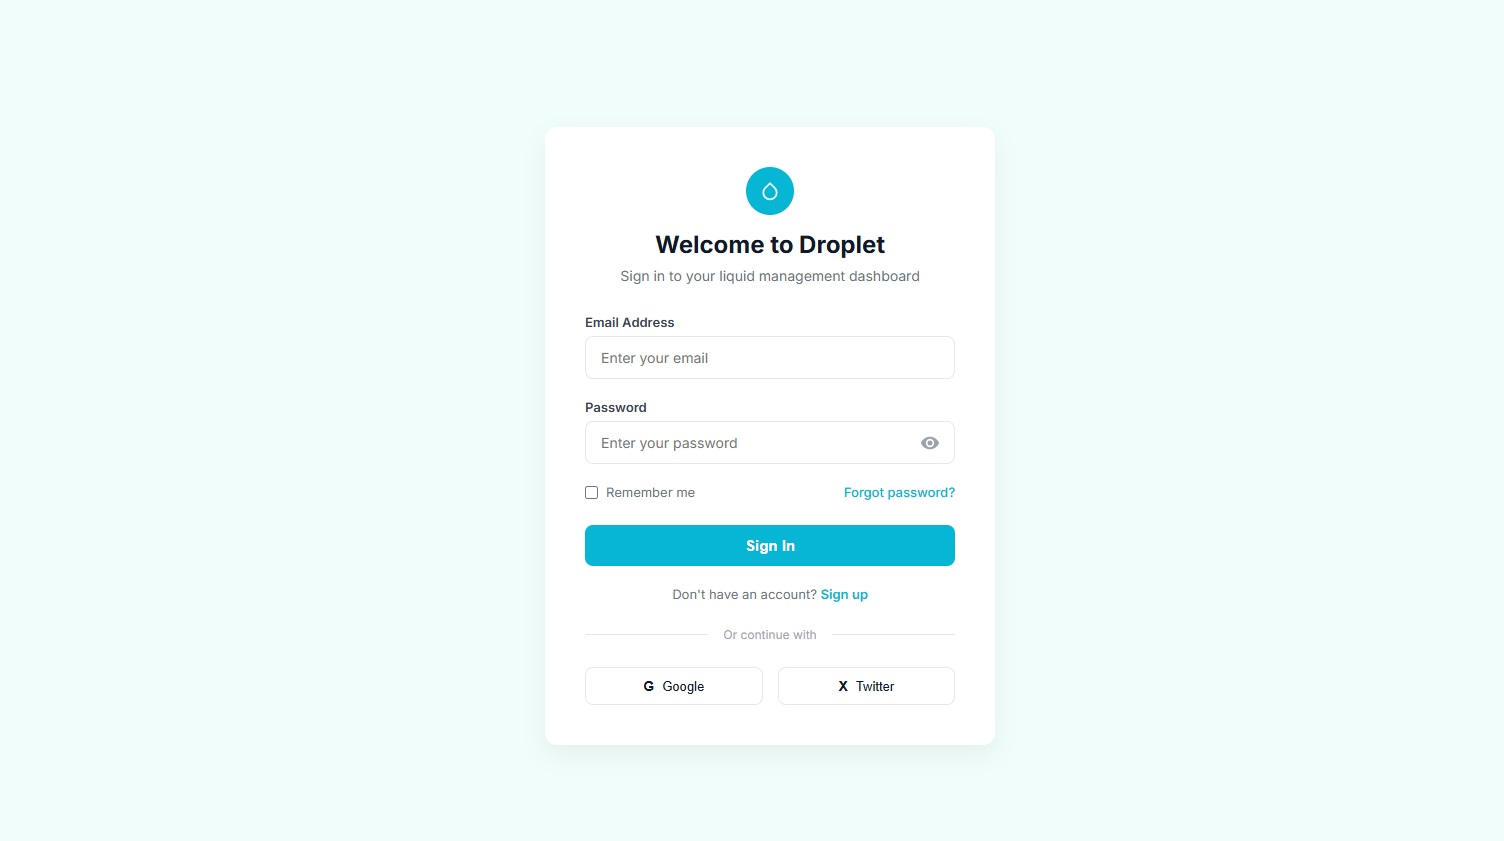
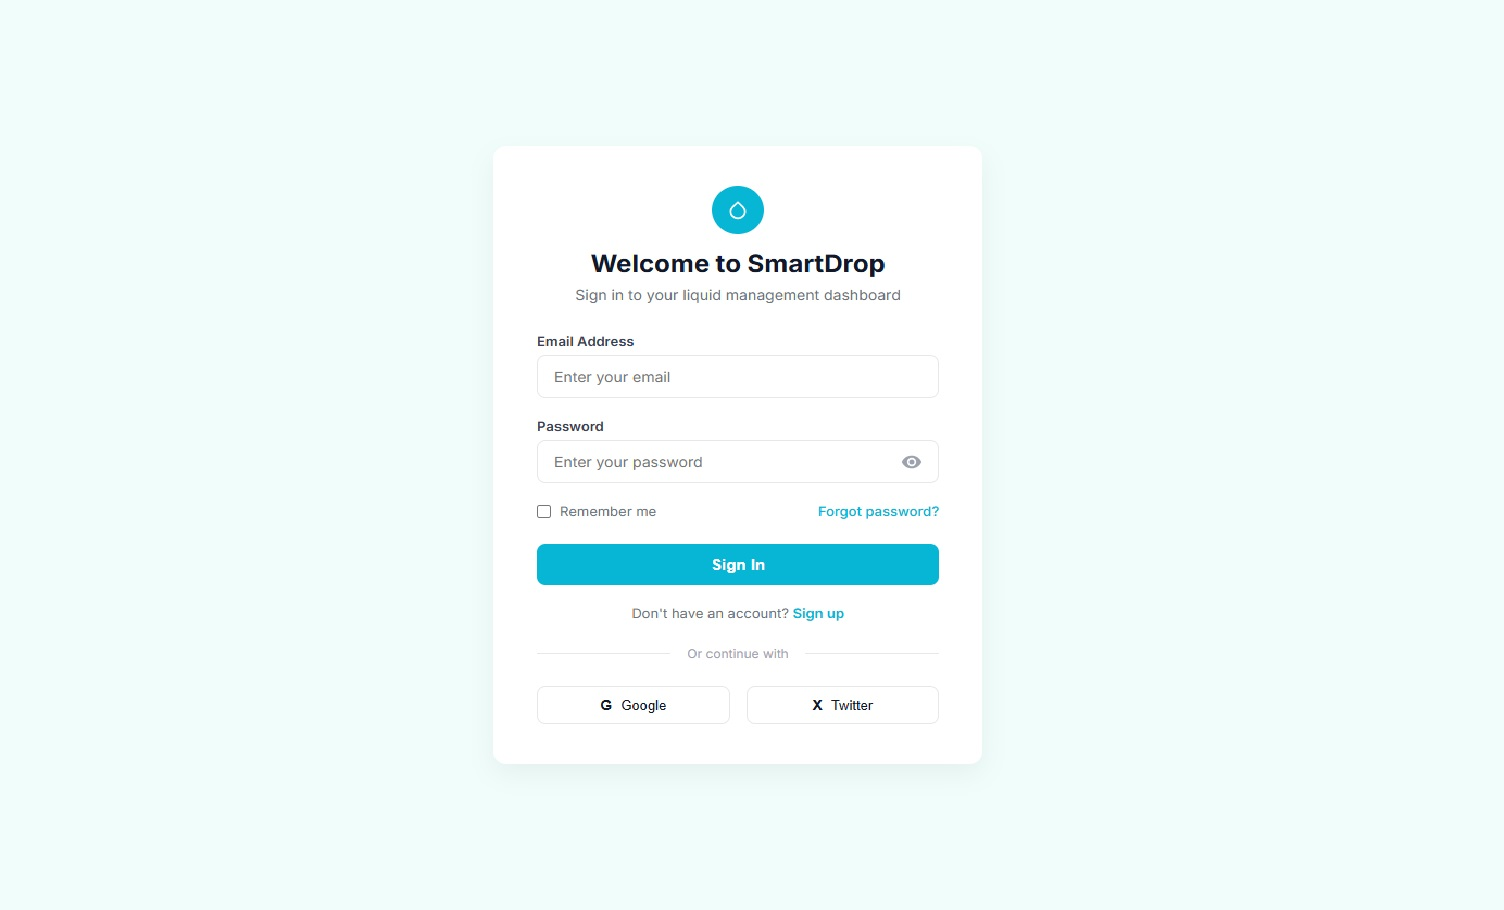
(docs)chapter4: Web UserFlow Diagrams updated

diff --git a/README.md b/README.md
@@ -247,7 +247,7 @@ del ABET – EAC \- Student Outcome 3\.
 # Capítulo IV: Product Design
 
 ## 4.1. Style Guidelines
-En esta sección, se presentan las pautas de estilo y diseño que guiarán la creación de la página web y la aplicación de Droplet. Estas pautas buscan asegurar una experiencia de usuario coherente, clara y atractiva, transmitiendo confianza y accesibilidad, en línea con la identidad de la marca y los objetivos del proyecto.
+En esta sección, se presentan las pautas de estilo y diseño que guiarán la creación de la página web y la aplicación de SmartDrop. Estas pautas buscan asegurar una experiencia de usuario coherente, clara y atractiva, transmitiendo confianza y accesibilidad, en línea con la identidad de la marca y los objetivos del proyecto.
 
 ### 4.1.1. General Style Guidelines
 
@@ -302,7 +302,7 @@ Desarrollaremos una plataforma digital que pueda usarse en cualquier dispositivo
 **Componentes Implementados:**
 
 **Header:**
-- Logo Droplet prominente en la esquina izquierda
+- Logo SmartDrop prominente en la esquina izquierda
 - Navegación horizontal con: Product, About Us, Team, Solutions, Liquids, Features, Testimonials, Pricing, FAQ
 - Botón CTA "Contact Sales" destacado con fondo blanco
 - Selector de idioma (EN) en la esquina derecha
@@ -334,13 +334,13 @@ Desarrollaremos una plataforma digital que pueda usarse en cualquier dispositivo
 - **Others:** "And more liquids across industries"
 
 **About Us:**
-- Descripción: "At Droplet we build sensor and software technology to provide total visibility of liquid usage. We believe in precise data, useful alerts and operational simplicity"
+- Descripción: "At SmartDrop we build sensor and software technology to provide total visibility of liquid usage. We believe in precise data, useful alerts and operational simplicity"
 - Tres pilares con iconos distintivos en cards individuales:
     - **Mission (ícono objetivo rojo):** "Make liquid management predictable and efficient"
     - **Reliability (ícono candado amarillo):** "Certified sensors and a platform with 99.9% uptime"
     - **Customer focus (ícono persona azul):** "Human support, guided onboarding and continuous improvements"
 
-**Our team:** "Five pillars powering Droplet:"
+**Our team:** "Five pillars powering SmartDrop:"
 - Cinco perfiles en layout de cuadrícula 2x3 (5 personas total)
 - **Primer perfil completo visible:** YNGA AMADO, JAFETH WORREN - Ingeniería de Software, con foto real
 - **Cuatro perfiles adicionales:** Muestran placeholders azules con "foto" indicando espacios para imágenes del equipo
@@ -363,10 +363,10 @@ Desarrollaremos una plataforma digital que pueda usarse en cualquier dispositivo
 - **Enterprise Custom:** Unlimited tanks and sites, Integrations and SLAs, Exports and audits, 24/7 support - Botón "Choose Plan" outline azul
 
 **What our customers say:** Sección de testimonios con tres cards de clientes en layout horizontal:
-- **Laura P. (LP) - Facilities Lead:** "Droplet cut unplanned downtime by 27% and paid for itself in 8 weeks. Our ops team sleeps better." - 5 estrellas
+- **Laura P. (LP) - Facilities Lead:** "SmartDrop cut unplanned downtime by 27% and paid for itself in 8 weeks. Our ops team sleeps better." - 5 estrellas
 - **Daniel R. (DR) - Operations Manager:** "From fuel to syrup, one dashboard unifies everything. Forecasts are spot-on and alerts are timely." - 5 estrellas
 - **María G. (MG) - Plant Supervisor:** "Inventory variance dropped 22% and replenishment logistics finally make sense." - 5 estrellas
-- Subtítulo: "Real stories from teams using Droplet for liquids"
+- Subtítulo: "Real stories from teams using SmartDrop for liquids"
 - Avatars circulares con iniciales en colores distintivos (LP azul, DR azul, MG azul)
 - Diseño de cards con bordes suaves y rating de 5 estrellas prominente en cada una
 
@@ -386,8 +386,8 @@ Desarrollaremos una plataforma digital que pueda usarse en cualquier dispositivo
     - **Get Help:** FAQ, Progress, Advisors, Payment Options
     - **Community:** Our Story, Developers, Events
     - **Follow Us:** Íconos de redes sociales (Facebook, Twitter, Instagram, YouTube)
-- Copyright notice: "© 2025 Droplet. All rights reserved."
-- Logo "Droplet" en la esquina inferior izquierda
+- Copyright notice: "© 2025 SmartDrop. All rights reserved."
+- Logo "SmartDrop" en la esquina inferior izquierda
 
 **Interacciones:**
 - Hover effects en botones con transiciones suaves
@@ -445,7 +445,7 @@ Se emplean etiquetas claras, simples y orientadas al usuario para identificar ca
 
 ### 4.2.3. SEO Tags and Meta Tags
 
-**Title:** Droplet – Monitoreo Inteligente de Líquidos para Hogares y Empresas
+**Title:** SmartDrop – Monitoreo Inteligente de Líquidos para Hogares y Empresas
 
 **Description:** Monitorea sistemas de líquidos con sensores IoT. Rastrea volumen, presión, densidad y temperatura de gasolina, cerveza, miel, melaza, químicos y más líquidos en tiempo real con alertas claras e informes para una gestión óptima.
 
@@ -512,7 +512,7 @@ desde el primer contacto.
 
 ### 4.3.1. Landing Page Wireframe
 
-El wireframe de la página de inicio de Droplet organiza los elementos clave para
+El wireframe de la página de inicio de SmartDrop organiza los elementos clave para
 ofrecer una navegación intuitiva. Incluye un encabezado con el logo y un menú de
 navegación, seguido de una propuesta de valor clara con botones de acción destacados
 como "Contact Sales" y "Get Started". La página cuenta con secciones que presentan
@@ -526,7 +526,7 @@ con enlaces legales en el pie de página.
 
 ![SystemContext.png](assets/chapter4/SmartDrop_Wireframe.png)
 ### 4.3.2. Landing Page Mock-up
-El Landing Page Mock-up de Droplet muestra un diseño limpio y organizado,
+El Landing Page Mock-up de SmartDrop muestra un diseño limpio y organizado,
 con una estructura intuitiva que guía a los usuarios a través de la plataforma.
 Incluye una propuesta de valor destacada en la parte superior, seguida de secciones
 clave como las funcionalidades clave, los beneficios para empresas y hogares,
@@ -537,13 +537,13 @@ clientes, detalles sobre la empresa y un formulario para contactar con el area d
 ![SystemContext.png](assets/chapter4/Mockup_SmartDrop.jpeg)
 ## 4.4. Web Applications UX/UI Design
 
-En esta sección, se presentan los wireframes y mock-ups de la aplicación web de Droplet. Así como también,
+En esta sección, se presentan los wireframes y mock-ups de la aplicación web de SmartDrop. Así como también,
 los wireflow y user flow diagrams. Estos diseños son esenciales para establecer la estructura y funcionalidad de la plataforma,
 asegurando una experiencia de usuario intuitiva y eficiente.
 
 ### 4.4.1. Web Applications Wireframes
 
-Los wireframes de la plataforma web Droplet muestran la estructura funcional pensada para ayudar a
+Los wireframes de la plataforma web SmartDrop muestran la estructura funcional pensada para ayudar a
 propietarios y gestores a mantener un control eficiente sobre su agua con sensores inteligentes.
 
 LOGIN WIREFRAME:
@@ -602,7 +602,7 @@ SUPPORT WIREFRAME:
   ![Login_mockup.jpg](assets/chapter4/Login_mockup.jpg)
 
 - REGISTER MOCK-UP:
-  ![Register_mockup.jpg](assets/chapter4/Register_mockup.jpg)
+  ![Register_mockup.jpg](assets/chapter4/register_mockup.jpg)
 
 - MAIN DASHBOARD MOCK-UP:
   ![Dashboard_mockup.jpg](assets/chapter4/Dashboard_mockup.jpg)
@@ -623,6 +623,30 @@ SUPPORT WIREFRAME:
   ![Support_mockup.jpg](assets/chapter4/Support_mockup.jpg)
 
 ### 4.4.3. Web Applications User Flow Diagrams
+
+- **Usergoal 15,16,28** : Alertas de anomalías en consumo, Alertas de fallas IoT, Notificaciones configurables
+  ![WF_usergoal_15,16,28.jpg](assets/chapter4/WF_usergoal_15,16,28.jpg)
+
+- **Usergoal 8,9,10,27** : Ver preguntas frecuentes (FAQ), Contactar ventas, Visualizar informacion de los integrantes del equipo, Soporte técnico
+  ![UF_usergoal_8,9,10,27.jpg](assets/chapter4/UF_usergoal_8,9,10,27.jpg)
+
+- **Usergoal 20,21,22,23** : Historial de facturación, Proyección de consumo y costo, Comparación de consumo, Reportes personalizados
+  ![UF_usergoal_20,21,22,23.jpg](assets/chapter4/UF_usergoal_20,21,22,23.jpg)
+
+- **Usergoal 3,4,5,12,13,17,18,19,26** : Monitoreo en Tiempo Real, Seguimiento de presión, Control de temperatura, Monitoreo por habitación, Detección de patrones de uso, Recomendaciones personalizadas, Consejos de sostenibilidad, Metas de consumo, Integración de dispositivos IoT
+  ![UF_usergoal_3,4,5,12,13,17,18,19,26.jpg](assets/chapter4/UF_usergoal_3,4,5,12,13,17,18,19,26.jpg)
+
+- **Usergoal 6** : Gestión de volumen
+  ![UF_usergoal_6.jpg](assets/chapter4/UF_usergoal_6.jpg)
+
+- **Usergoal 7,29,30** : Ver y selección de planes de suscripción, Pago con tarjeta de crédito, Pago con billetera digital
+  ![UF_usergoal_7,29,30.jpg](assets/chapter4/UF_usergoal_7,29,30.jpg)
+
+- **Usergoal 11** : Acceder a la Web App desde la landing page
+  ![UF_usergoal_11.jpg](assets/chapter4/UF_usergoal_11.jpg)
+
+- **Usergoal 24,25** : Inventario de agua en tanques, Predicciones de reabastecimiento
+  ![UF_usergoal_24,25.jpg](assets/chapter4/UF_usergoal_24,25.jpg)
 
 ## 4.5. Web Applications Prototyping
 En esta sección, se presentan los prototipos de la aplicación web de SmartDrop.
